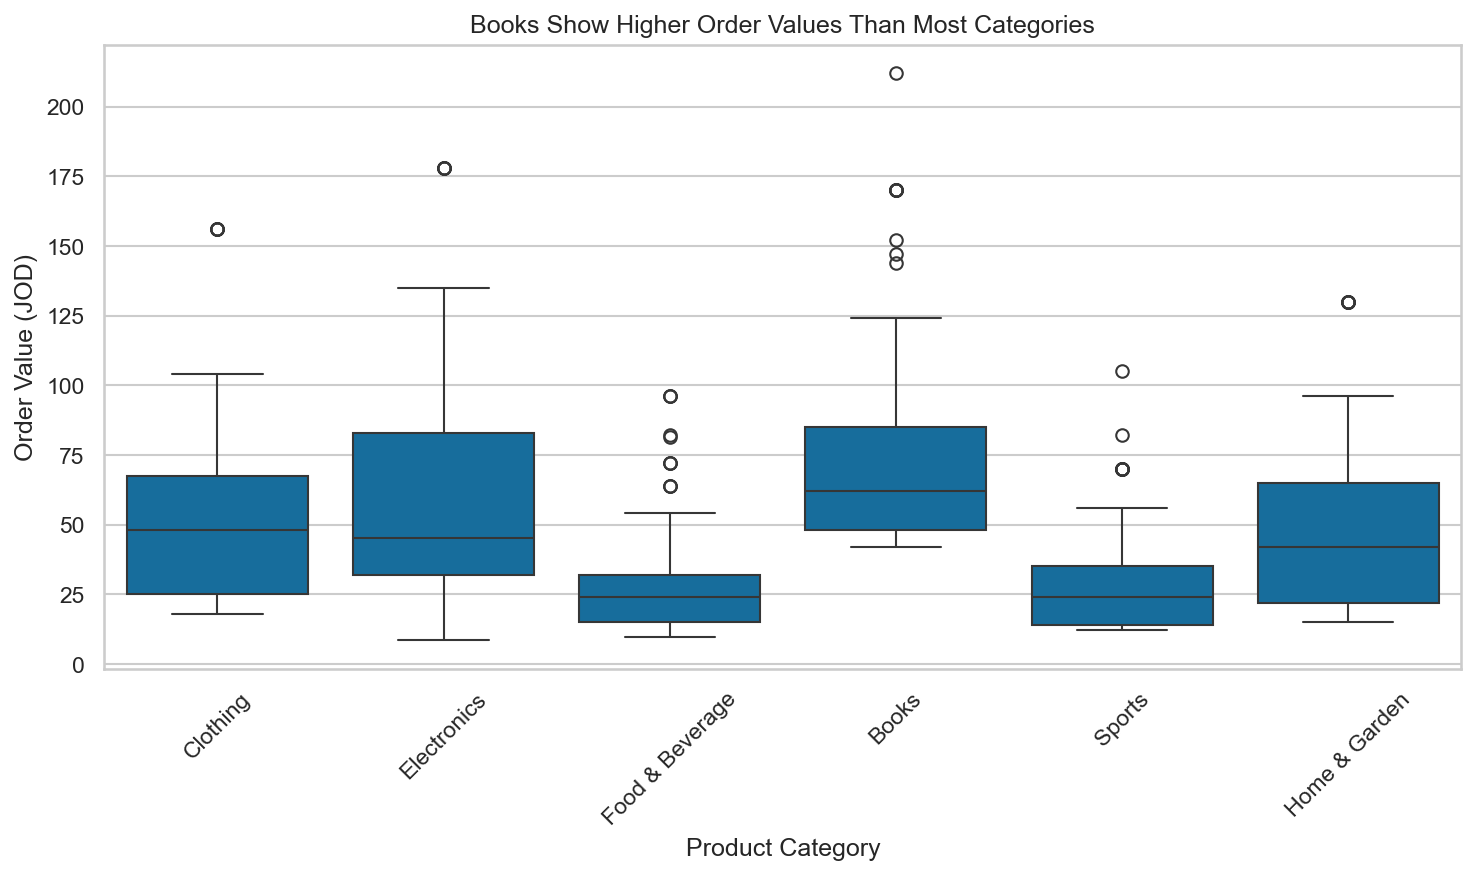
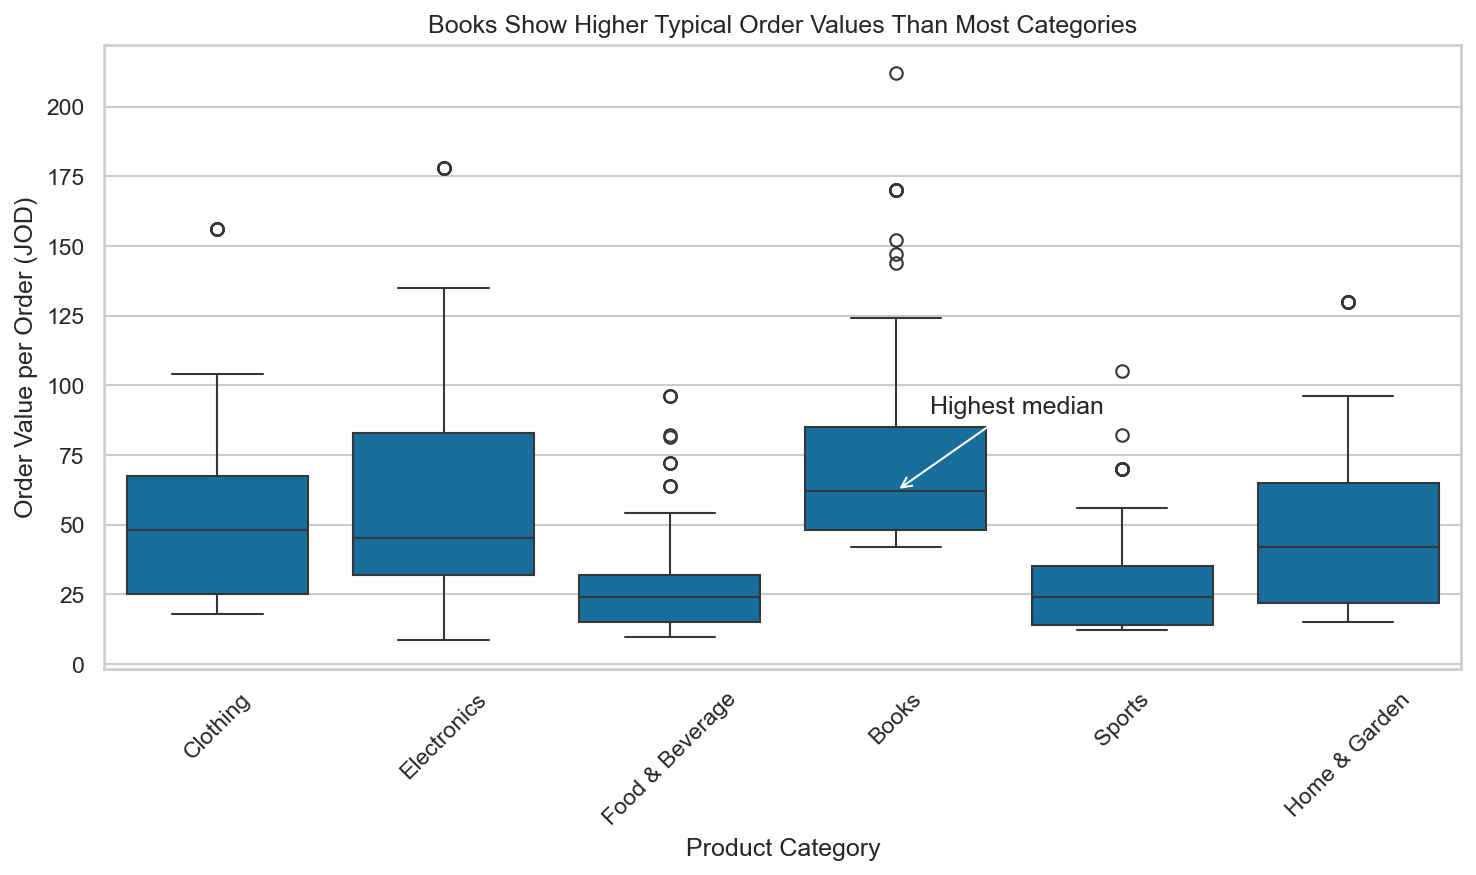
Refine chart labels and annotation for Part 1 contribution

Changed region(s): [[0.2805, 0.0, 0.7791, 0.0617], [0.0, 0.216, 0.0312, 0.5863], [0.6233, 0.432, 0.748, 0.4937]]

diff --git a/contributions/AwwadR/generate_chart.py b/contributions/AwwadR/generate_chart.py
@@ -43,6 +43,7 @@ def read_table_via_docker(table_name):
 
 def main():
     os.makedirs("contributions/AwwadR", exist_ok=True)
+
     sns.set_theme(style="whitegrid")
     sns.set_palette("colorblind")
 
@@ -51,14 +52,17 @@ def main():
     orders = read_table_via_docker("orders")
     order_items = read_table_via_docker("order_items")
 
+    # cleaning
     orders = orders[orders["status"] != "cancelled"].copy()
     order_items = order_items[order_items["quantity"] <= 100].copy()
     customers["city"] = customers["city"].fillna("Unknown")
 
+    # merge
     df = order_items.merge(orders, on="order_id", how="inner")
     df = df.merge(products, on="product_id", how="inner")
     df = df.merge(customers, on="customer_id", how="inner")
 
+    # feature engineering
     df["line_revenue"] = df["quantity"] * df["unit_price"]
 
     order_category_values = (
@@ -67,12 +71,35 @@ def main():
         .rename(columns={"line_revenue": "category_order_value"})
     )
 
+    category_order = [
+        "Clothing",
+        "Electronics",
+        "Food & Beverage",
+        "Books",
+        "Sports",
+        "Home & Garden",
+    ]
+
     plt.figure(figsize=(10, 6))
-    sns.boxplot(data=order_category_values, x="category", y="category_order_value")
-    plt.title("Books Show Higher Order Values Than Most Categories")
-    plt.xlabel("Product Category")
-    plt.ylabel("Order Value (JOD)")
+    ax = sns.boxplot(
+        data=order_category_values,
+        x="category",
+        y="category_order_value",
+        order=["Clothing", "Electronics", "Food & Beverage", "Books", "Sports", "Home & Garden"]
+    )
+
+    ax.set_title("Books Show Higher Typical Order Values Than Most Categories")
+    ax.set_xlabel("Product Category")
+    ax.set_ylabel("Order Value per Order (JOD)")
     plt.xticks(rotation=45)
+
+    ax.annotate(
+        "Highest median",
+        xy=(3, 62),
+        xytext=(3.15, 90),
+        arrowprops=dict(arrowstyle="->")
+    )
+
     plt.tight_layout()
     plt.savefig("contributions/AwwadR/chart.png", dpi=150, bbox_inches="tight")
     plt.close()

diff --git a/contributions/AwwadR/README.md b/contributions/AwwadR/README.md
@@ -1,0 +1,5 @@
+# Chart Summary
+
+I choosed this chart in my assignmet, which is using Amman Digital Market data after it being cleaned, for comparing the order value distribution across product categories.
+I used The boxplot because It shows clearly the median, spread, and the outliers of ech category. This makes the process of evaluating the differences between the categories easier just by using the averages.
+As you can see, the chart shows that Books has the highest typical order values, while the order values of Food & Beverages and Sports tend to be lower. Also, the Electronics show a wide spread, that means theres is greater variation in order values. This is improtant beacause it shows the difference in the customer spending behavior between categories, and this can help in support pricing, promotion, and inventory decisions.
